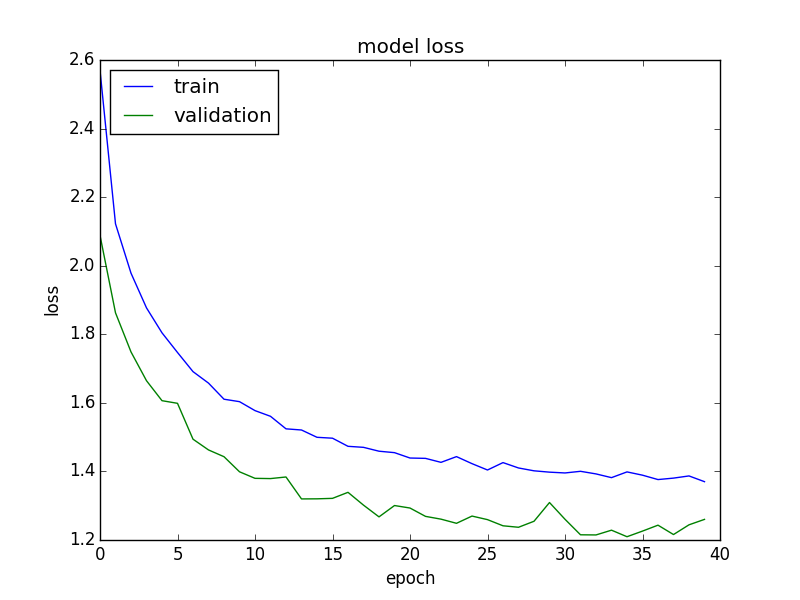
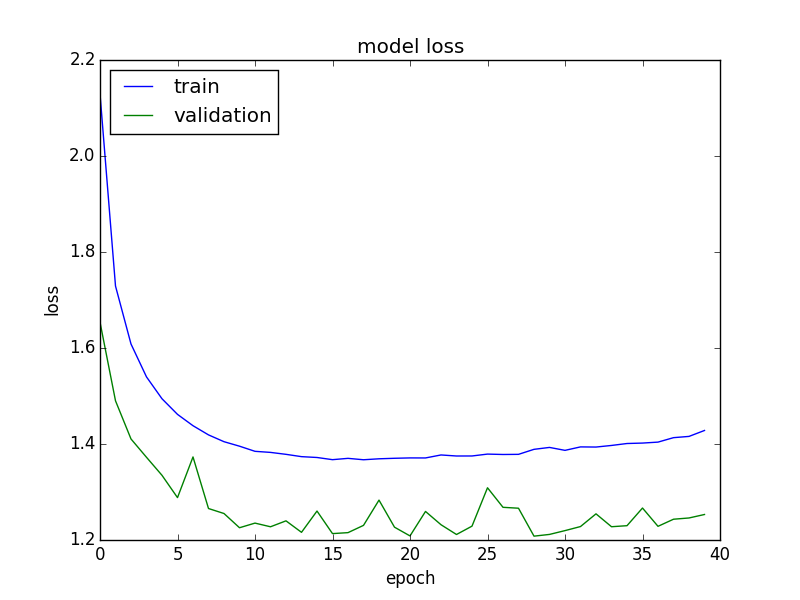
Experimento con 100% de dataset de train y cinco capas convolucionales.

diff --git a/ex3b_convnet_5conv/ex3b_convnet_5conv.py b/ex3b_convnet_5conv/ex3b_convnet_5conv.py
@@ -68,7 +68,7 @@ tst_dataset = img_generator.flow_from_directory(
     batch_size=batch_size
 )
 
-trainSamples = int(trn_dataset.N * .25)
+trainSamples = int(trn_dataset.N)
 trainSamples -= trainSamples % batch_size  # tiene que se multiplo de batch_size
                                            # https://github.com/fchollet/keras/issues/3256
 validationSamples = int(val_dataset.N)
